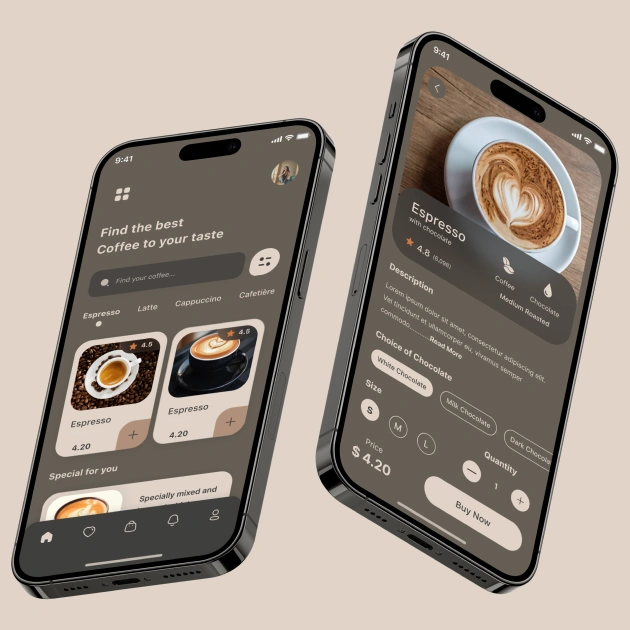
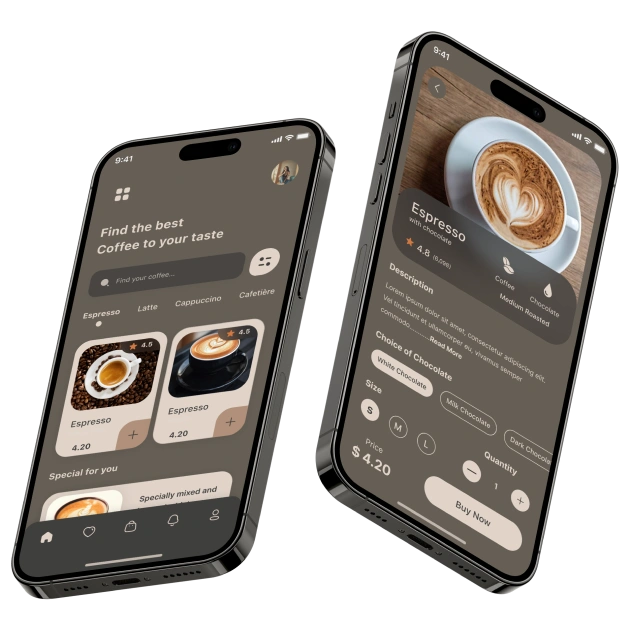
fix: change image in mobile-app section

diff --git a/src/sass/base/_base.scss b/src/sass/base/_base.scss
@@ -34,6 +34,7 @@ html {
 body {
   @extend %font-prim;
   @include font($size: 1.6rem, $line-height: 150%);
+  background-color: var(--color-background-page);
   transition:
     background-color 0.3s ease,
     color 0.3s ease;

diff --git a/src/style.css b/src/style.css
@@ -94,6 +94,7 @@ body {
   font-weight: normal;
   color: var(--color-text-primary);
   line-height: 150%;
+  background-color: var(--color-background-page);
   transition: background-color 0.3s ease, color 0.3s ease;
 }
 
